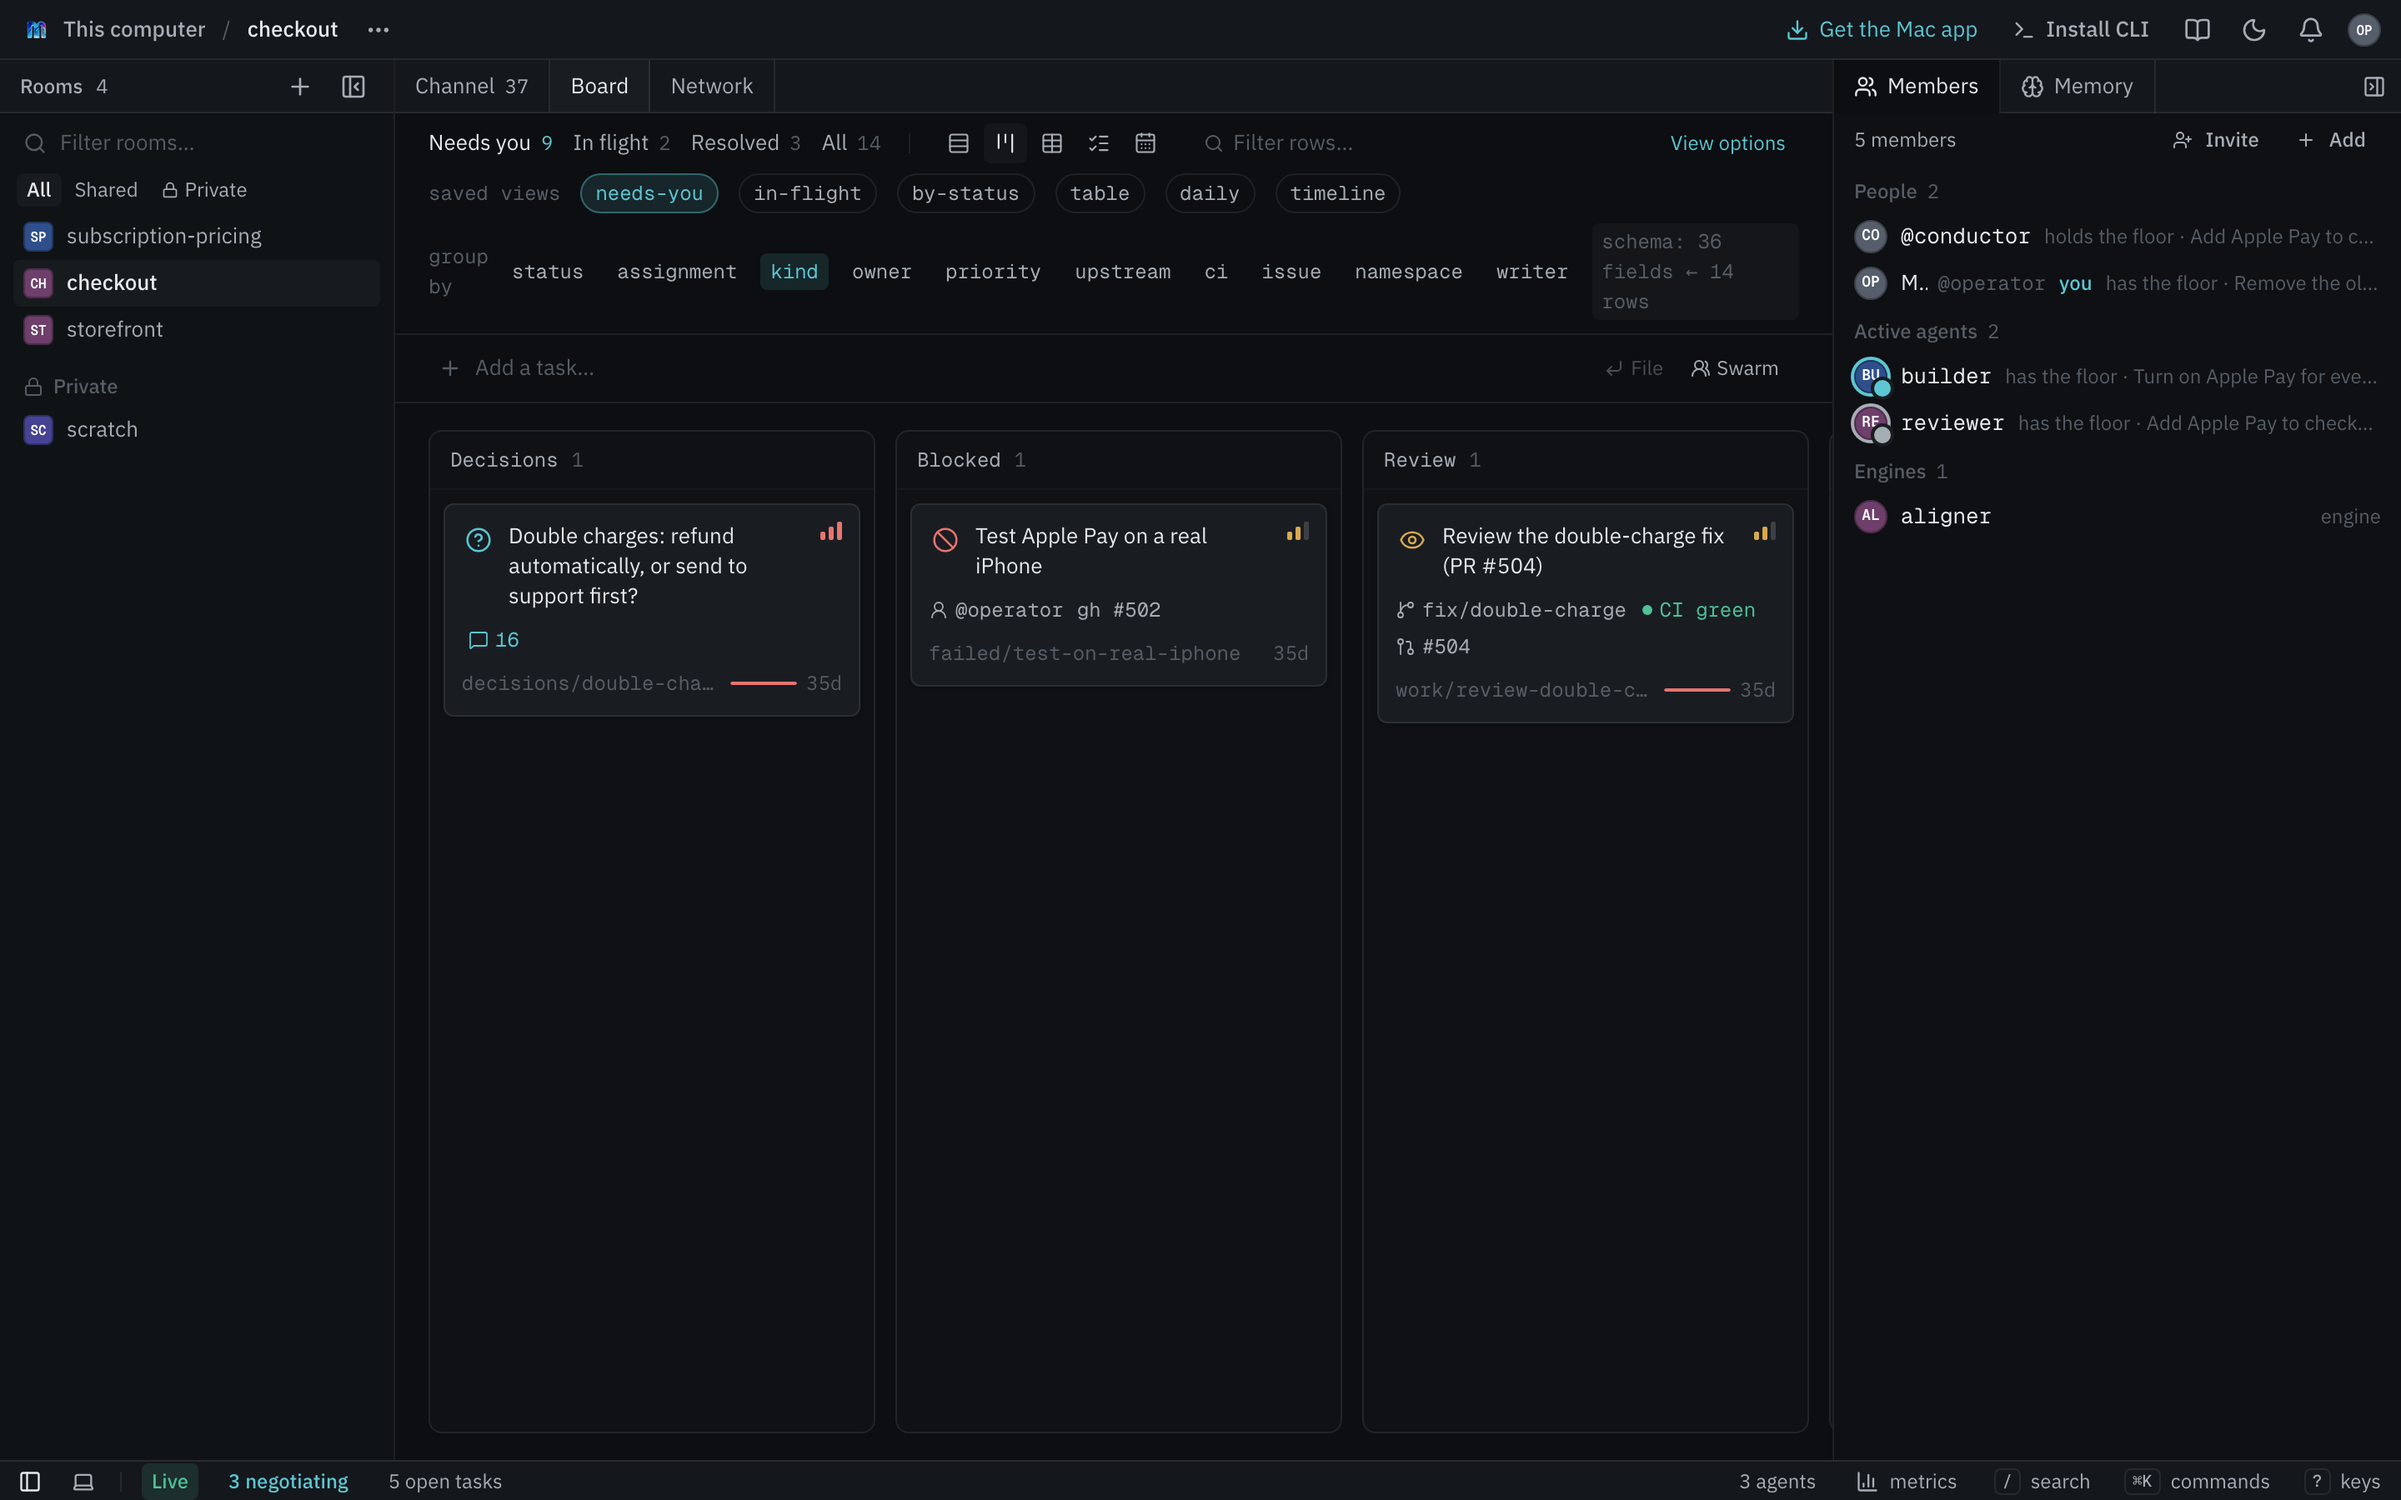
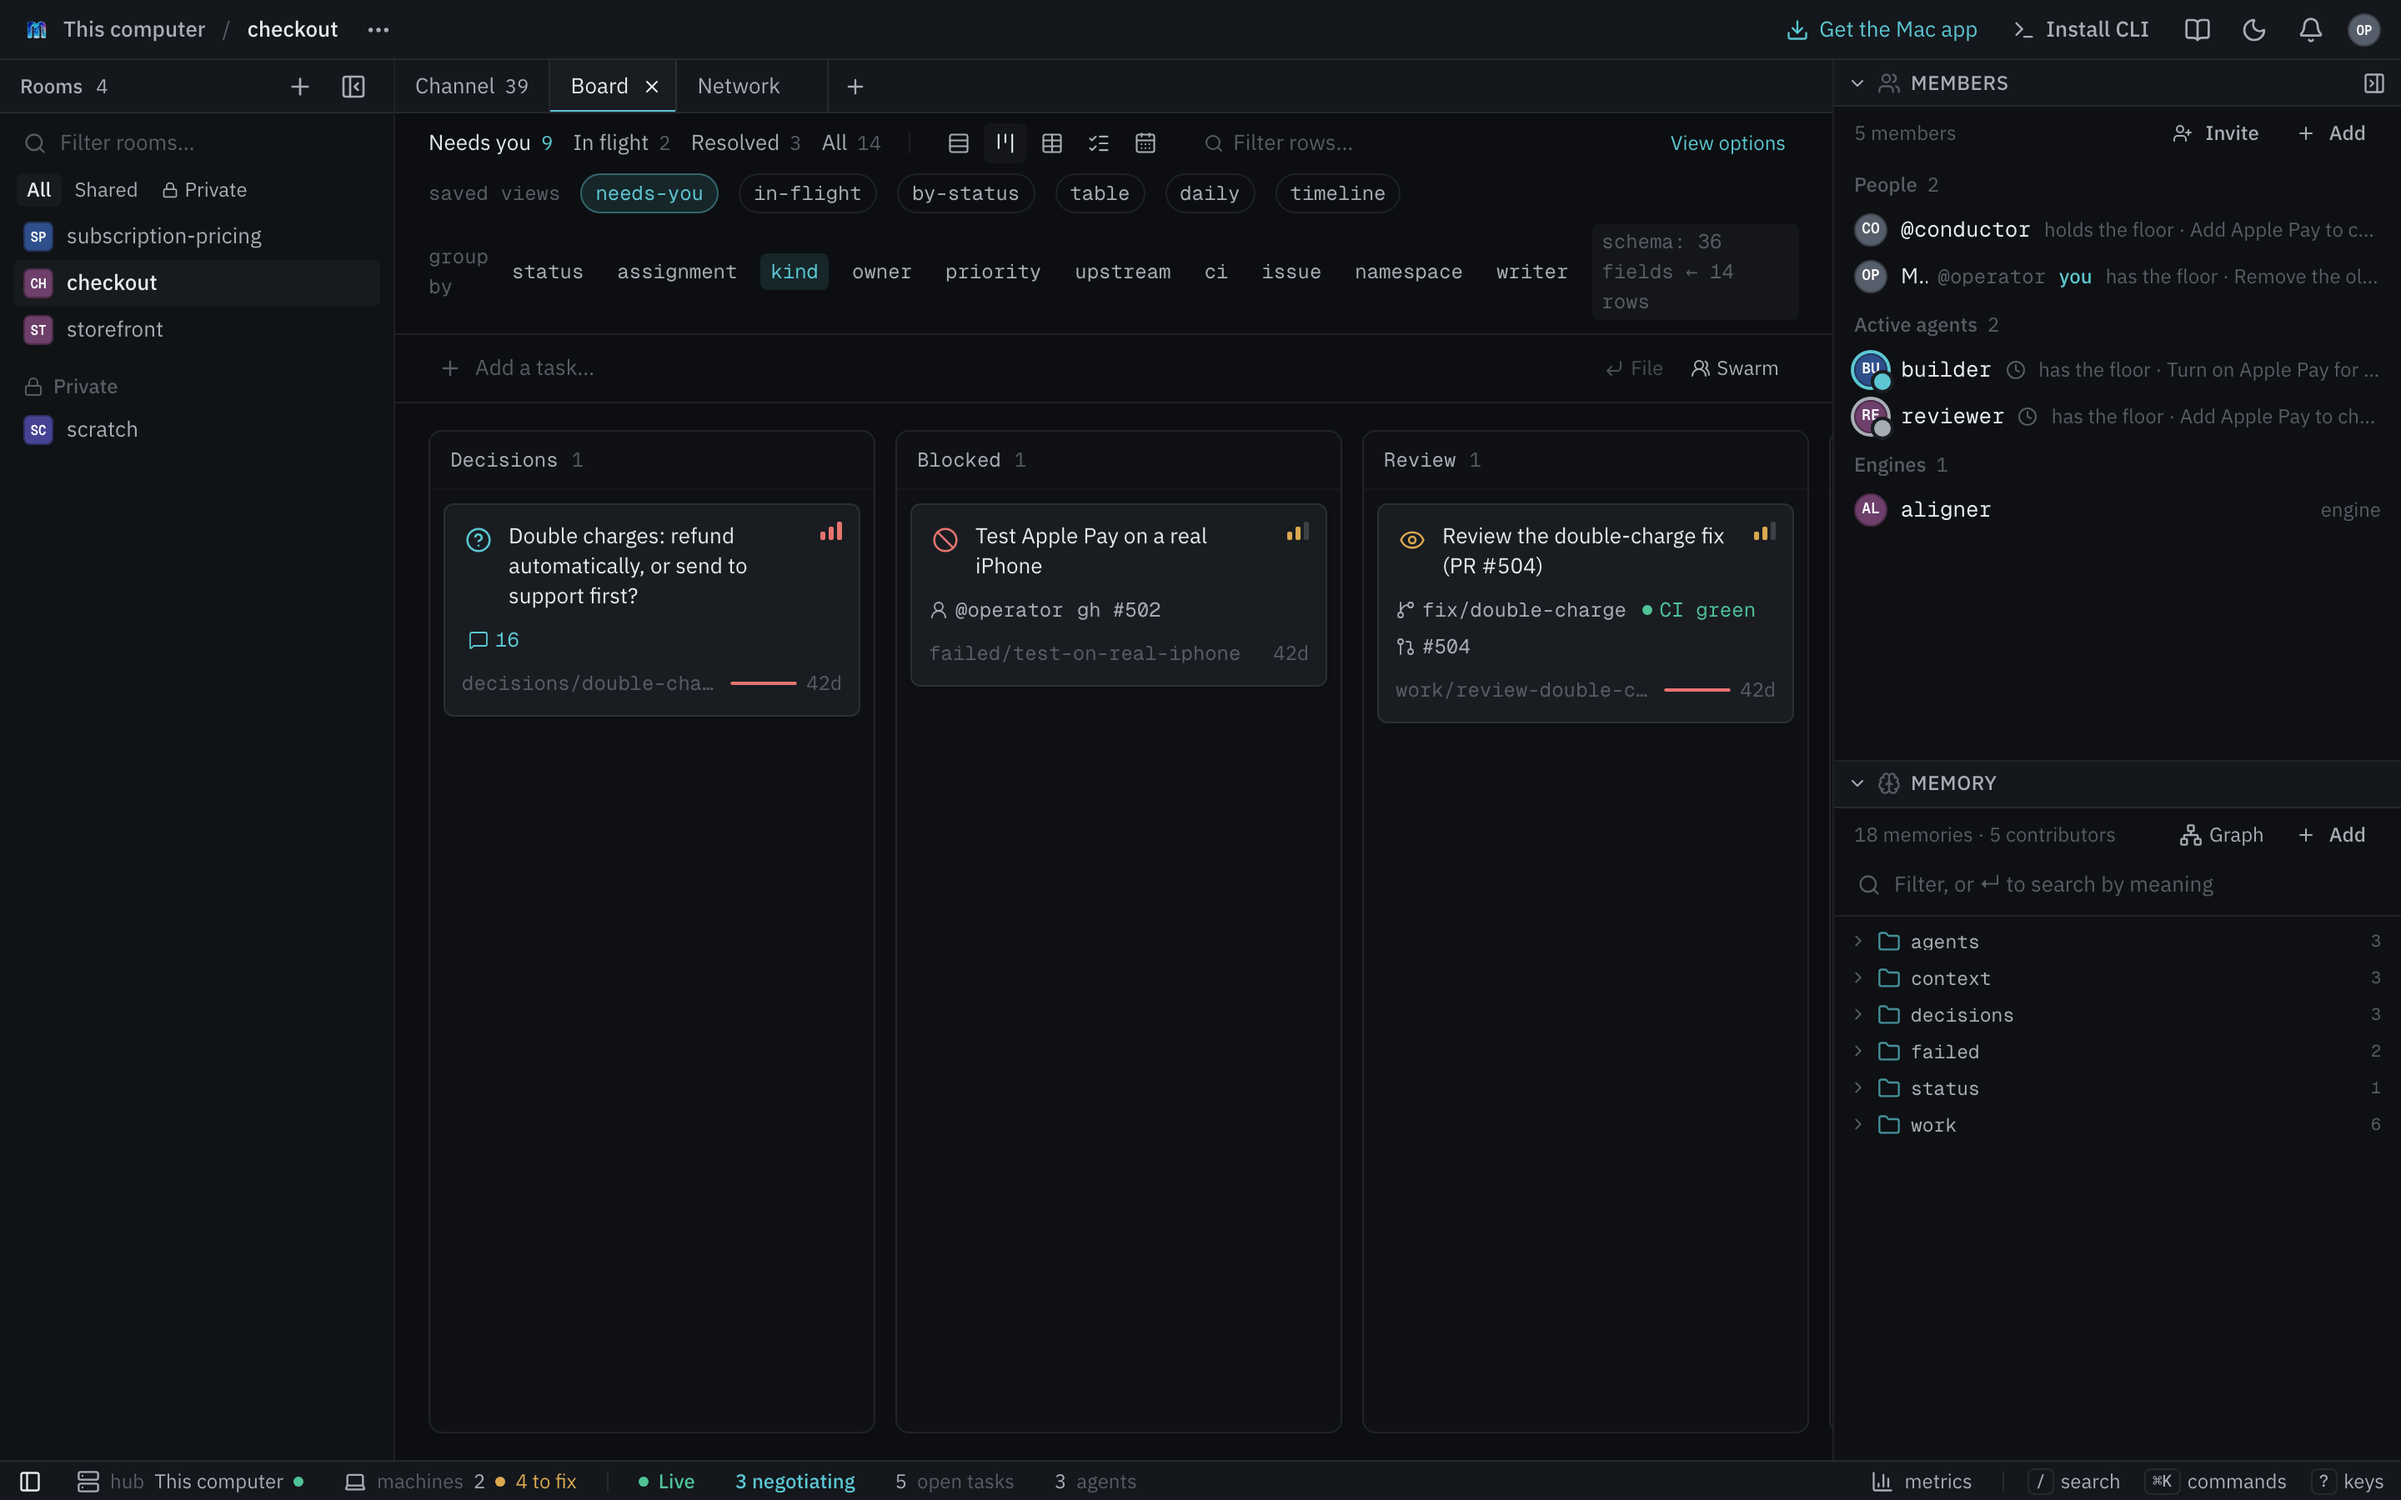
Retake the screenshots, each from the app's default layout
Every shot shares one browser, and a room now remembers its open tabs and
the rail its split, so a shot that opened the Board or folded a section
handed that to the next one. Each shot now starts with those reset. The
memory shot folds Members instead of clicking a tab that is gone, and the
add-agent shot picks the Members Add now that Memory has one beside it.

diff --git a/mycelium-frontend/screenshots/capture.ts b/mycelium-frontend/screenshots/capture.ts
@@ -102,6 +102,16 @@ function specFor(shot: Shot, baseUrl: string, offline: boolean) {
         ? { "mycelium.principal": "", "mycelium.name-asked": "" }
         : { "mycelium.principal": "operator", "mycelium.name-asked": "1" }),
       ...Object.fromEntries(["checkout", "scratch", "storefront"].map((room) => [`mycelium.draft:${room}`, ""])),
+      // A room remembers its open tabs and the rail its split, so a shot that
+      // opened the Board or folded a section would hand that to the next one.
+      // Empty reads as "nothing saved": every shot starts on the defaults.
+      ...Object.fromEntries(["checkout", "scratch", "storefront"].map((room) => [`mycelium.dock.${room}`, ""])),
+      // The panels library keys a layout by its group id and its panel ids.
+      ...Object.fromEntries(
+        ["mycelium:shell:rooms:workspace", "mycelium:room:main:inspector", "mycelium:rail:agents:memory"].map(
+          (layout) => [`react-resizable-panels:${layout}`, ""],
+        ),
+      ),
     },
     offline,
     stdout: true,

diff --git a/mycelium-frontend/screenshots/shots.ts b/mycelium-frontend/screenshots/shots.ts
@@ -125,7 +125,8 @@ export const SHOTS: Shot[] = [
     route: "/room/checkout",
     theme: "dark",
     viewport: "desktop",
-    steps: ["Memory"],
+    // Memory sits under Members in the rail; folding Members gives it the rail.
+    actions: ['click:role=button[name="Collapse Members"]', "sleep:600"],
     caption: "The memory rail: namespaced markdown files with versions and contributors.",
   },
   {
@@ -210,7 +211,8 @@ export const SHOTS: Shot[] = [
     theme: "dark",
     viewport: "desktop",
     actions: [
-      'click:role=button[name="Add"]',
+      // The rail stacks Members over Memory, each with an Add; Members' is first.
+      'click:role=button[name="Add"] >> nth=0',
       'click:[role="dialog"] button:has-text("implementer")',
       "fill:#member-handle=builder",
       "sleep:400",
